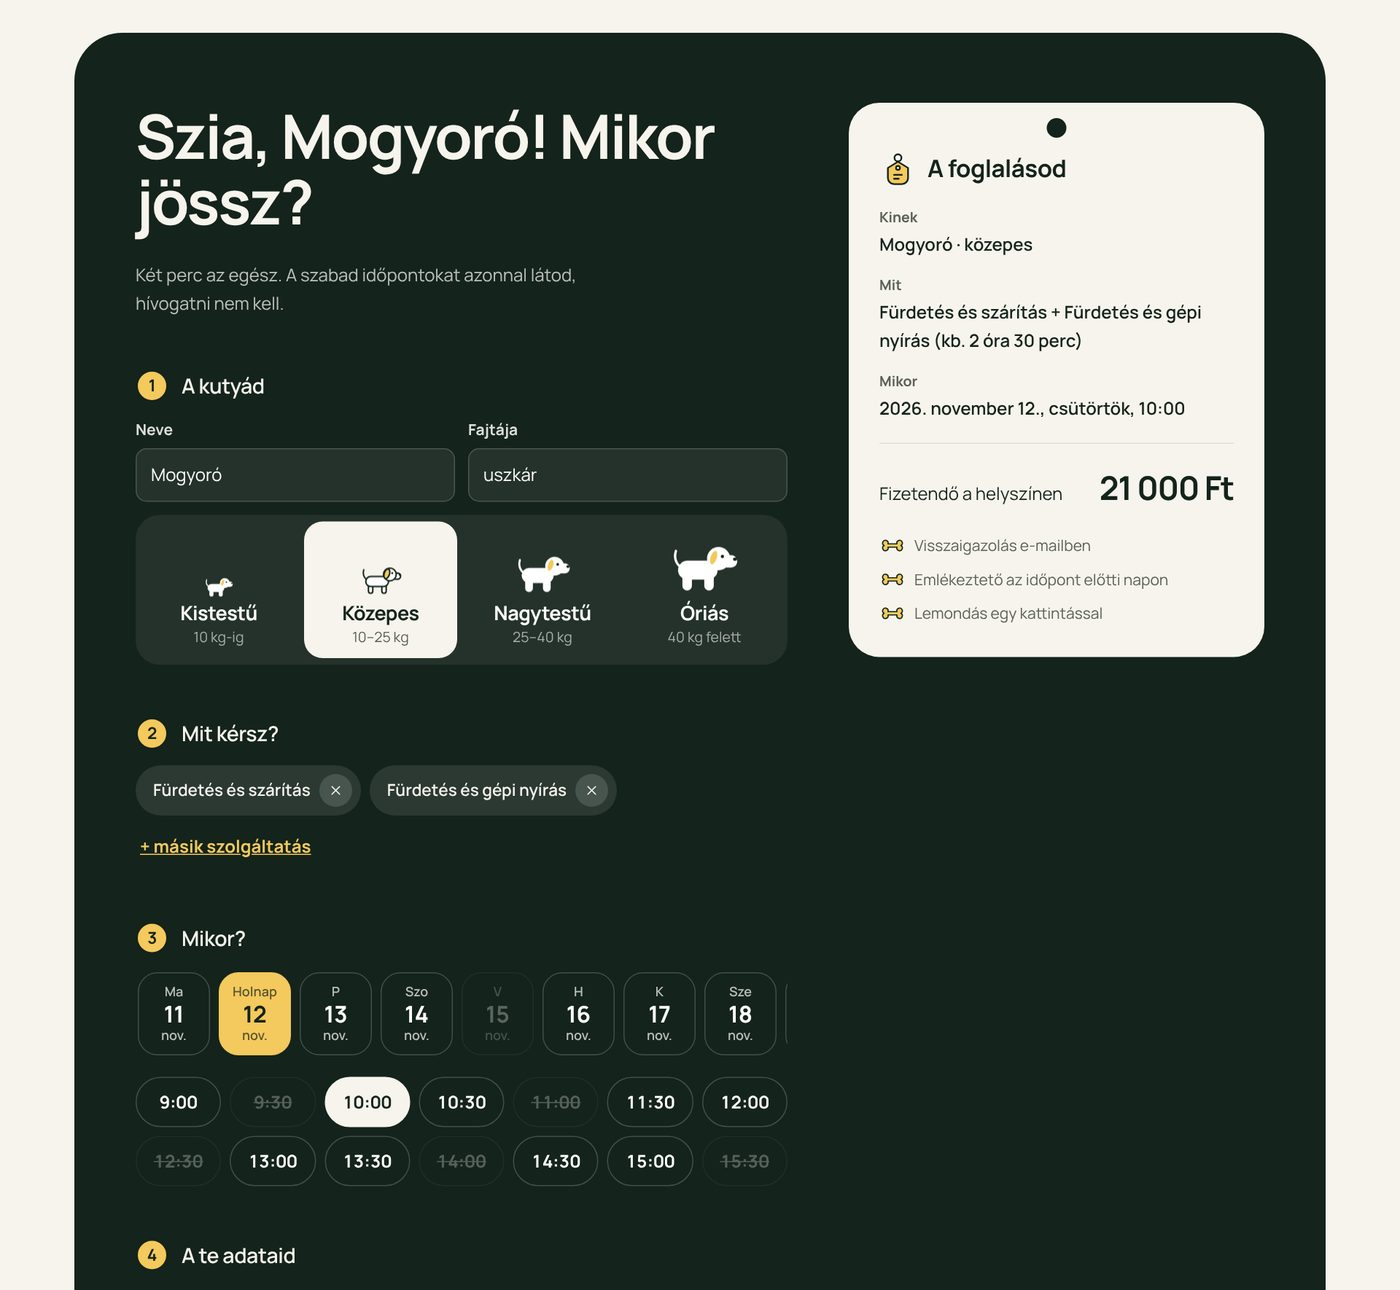
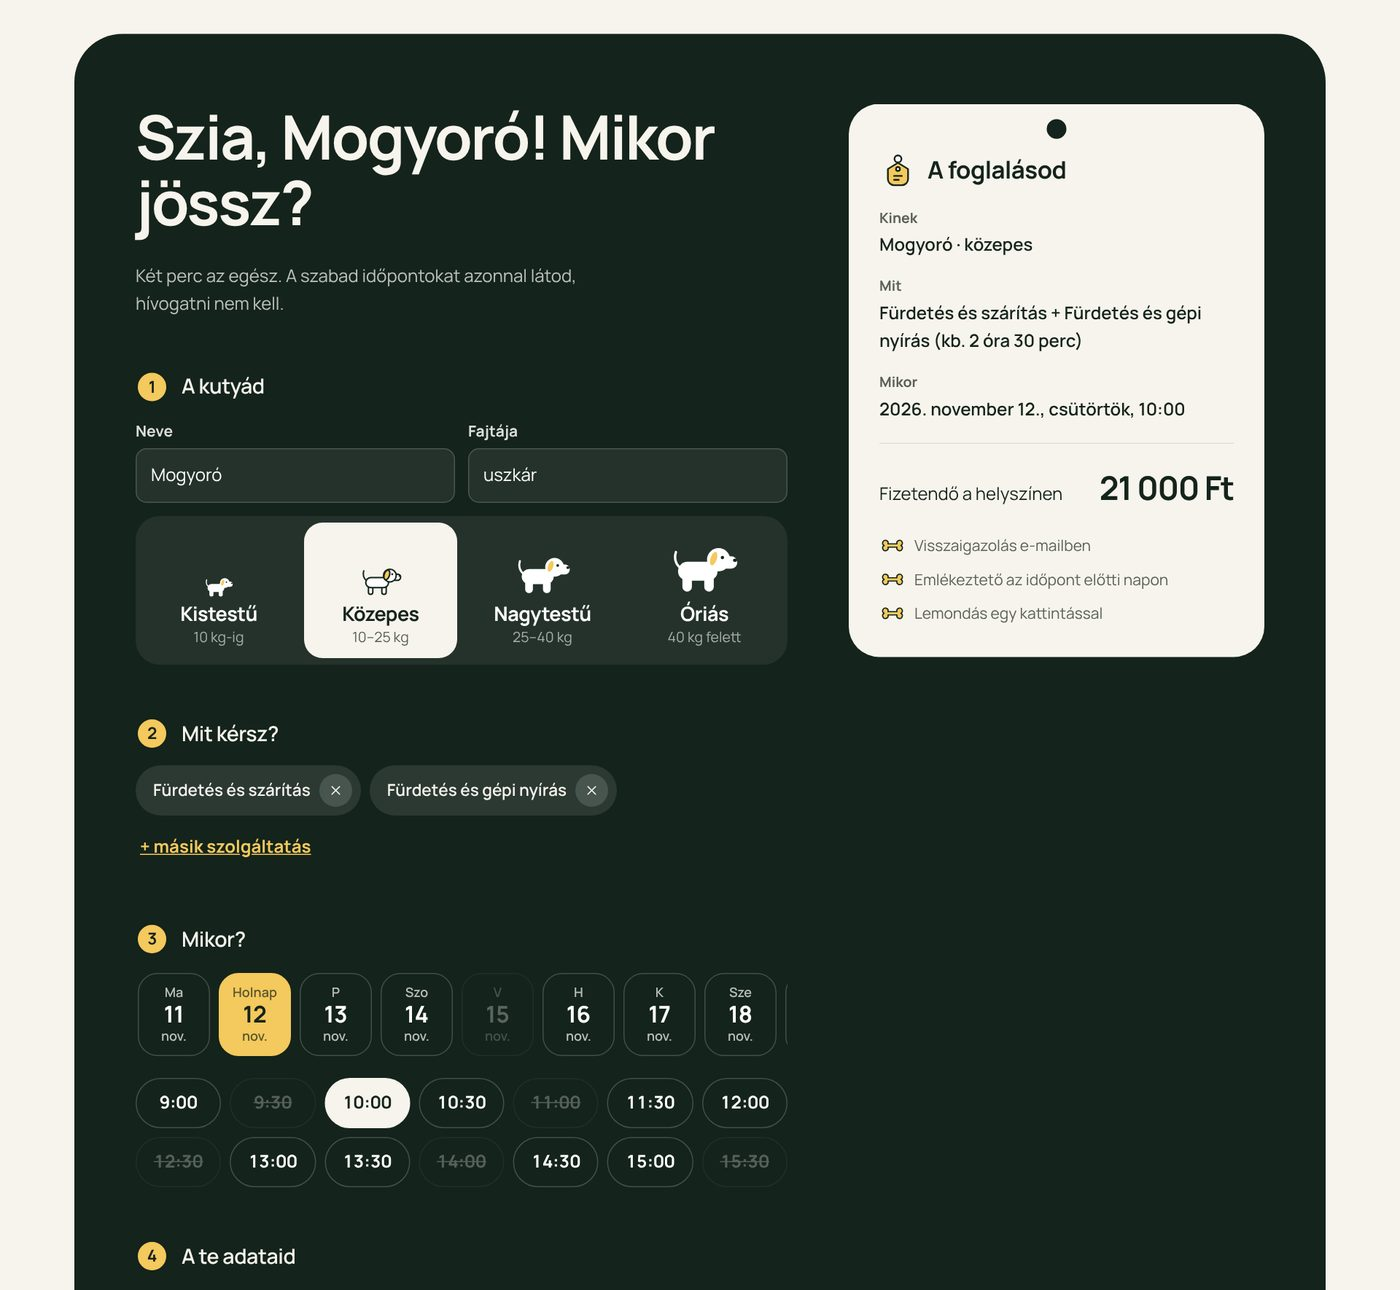
Kutyakozmetika: asztali nyitóblokk kitölti a teret (adatok egymás alatt), buborék le a kutya szeméről
Claude-Session: https://claude.ai/code/session_016Run1nACTgNtgLbjaBZxC9

diff --git a/minta/teszt-kutyakozmetika/index.html b/minta/teszt-kutyakozmetika/index.html
@@ -545,6 +545,15 @@ html{overflow-x:hidden}
 .hero .meta a:hover{text-decoration:underline}
 .hero .meta .dot{margin:0 4.5px;flex:none}
 .hero .meta .ico{flex:none}
+@media (min-width:1001px){
+  .hero .loc{margin-bottom:26px}
+  .hero .lead{font-size:clamp(18px,1.55vw,21px);margin-top:28px}
+  .hero .cta{margin-top:38px}
+  .hero .meta{flex-direction:column;align-items:flex-start;gap:0;margin-top:40px;font-size:16px;max-width:400px}
+  .hero .meta>*{width:100%;padding:13px 0;border-top:1px solid var(--line)}
+  .hero .meta>*:last-child{border-bottom:1px solid var(--line)}
+  .hpic .say{left:-17%;top:50%}
+}
 </style>
 </head>
 <body class="k-kutya s-alap t-alap">
